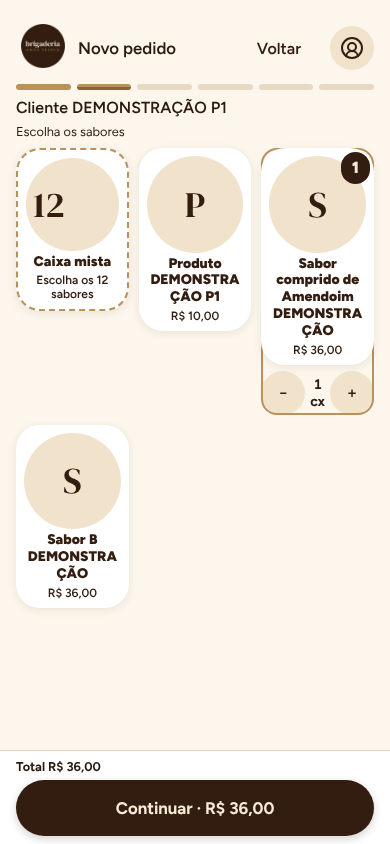
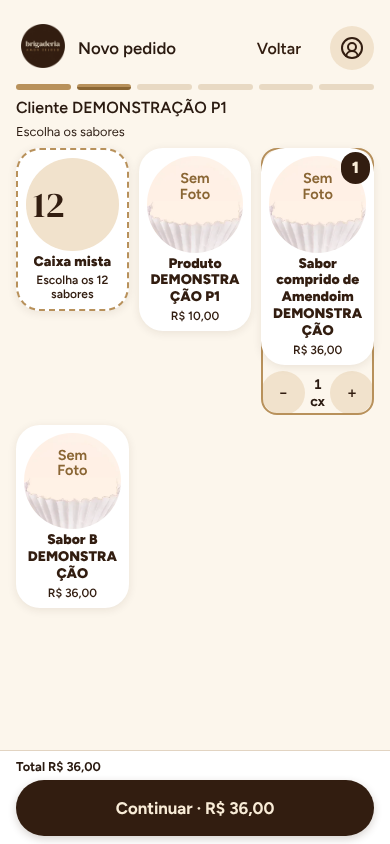
Sabores sem foto: forminha vazia com "Sem Foto" (opção 6 aprovada)
Imagem feita a partir da foto do Brigadeiro do app; o texto é escrito
pelo app por cima, nítido em qualquer tamanho. No editor de kits
(44 px) fica só a forminha.

Claude-Session: https://claude.ai/code/session_0141B4PnNJ4Mzj7mcUbY7h2t

Changed region(s): [[0.0615, 0.4929, 0.3077, 0.6469], [0.3692, 0.1848, 0.6462, 0.3081], [0.6769, 0.1848, 0.9538, 0.3081]]

diff --git a/src/theme.css b/src/theme.css
@@ -1477,15 +1477,39 @@ textarea::placeholder {
   }
 }
 
-/* Sabores sem foto: círculo do mesmo tamanho das fotos, nunca oval. */
-.order-focus .flavor-card .flavor-placeholder {
-  width: min(8rem, 100%);
-  height: auto;
+/* Sabores sem foto: forminha vazia com "Sem Foto", no mesmo lugar e tamanho das fotos. */
+.no-photo {
+  position: relative;
+  display: block;
+  container-type: inline-size;
+  flex-shrink: 0;
+  overflow: hidden;
+  border-radius: 50%;
   aspect-ratio: 1;
-  background: var(--az-tonal);
-  color: var(--az-choc);
-  font-family: var(--az-serif);
-  font-size: 2.25rem;
+}
+.no-photo img {
+  display: block;
+  width: 100%;
+  height: 100%;
+  object-fit: cover;
+}
+.no-photo-text {
+  position: absolute;
+  inset: 16% 0 auto;
+  text-align: center;
+  font-family: var(--az-sans);
+  font-weight: 650;
+  font-size: 15cqw;
+  line-height: 1.05;
+  color: var(--az-gold-ink);
+}
+.order-focus .flavor-card .no-photo {
+  width: min(8rem, 100%);
+  margin-inline: auto;
+}
+.no-photo--small {
+  width: 44px;
+  height: 44px;
 }
 /* Nomes longos quebram dentro do cartão, sem passar da borda. */
 .order-focus .flavor-card .flavor-name,

diff --git a/src/features/mobile/Totem.tsx b/src/features/mobile/Totem.tsx
@@ -58,6 +58,7 @@ import {
 } from '../operations/common';
 import { MoneyInput, QuantityInput } from '../../components/NumericInputs';
 import { photoURL } from '../../../shared/flavors';
+import { NoPhoto } from '../../components/NoPhoto';
 import { deliveryAddress, emptyPlace } from '../../../shared/field';
 import {
   emptyTerms,
@@ -1237,12 +1238,7 @@ export function Totem({
                             height={120}
                           />
                         ) : (
-                          <span
-                            className="flavor-placeholder"
-                            aria-hidden="true"
-                          >
-                            {title.charAt(0)}
-                          </span>
+                          <NoPhoto />
                         )}
                         <span className="flavor-name">
                           <strong>{title}</strong>

diff --git a/src/components/NoPhoto.tsx b/src/components/NoPhoto.tsx
@@ -1,0 +1,22 @@
+/**
+ * Sabor ainda sem foto: forminha vazia com "Sem Foto" escrito pelo próprio app
+ * (texto nítido em qualquer tamanho). Em tamanhos pequenos fica só a forminha.
+ * Prévia aprovada pelo Felipe em 18/11 (opção 6).
+ */
+export function NoPhoto({ small = false }: { small?: boolean }) {
+  return (
+    <span
+      className={`no-photo${small ? ' no-photo--small' : ''}`}
+      aria-hidden="true"
+    >
+      <img src="/brand/sem-foto.webp" alt="" width={120} height={120} />
+      {!small && (
+        <span className="no-photo-text">
+          Sem
+          <br />
+          Foto
+        </span>
+      )}
+    </span>
+  );
+}

diff --git a/src/components/KitItemsEditor.tsx b/src/components/KitItemsEditor.tsx
@@ -1,3 +1,4 @@
+import { NoPhoto } from './NoPhoto';
 import { AlcoholTag } from './AlcoholTag';
 import { useState, useRef, type ReactNode } from 'react';
 import { Button } from './Button';
@@ -410,10 +411,7 @@ export function KitItemsEditor({
                           height={44}
                         />
                       ) : (
-                        <span
-                          className="flavor-placeholder"
-                          aria-hidden="true"
-                        />
+                        <NoPhoto small />
                       )}
                       <Button
                         type="button"
